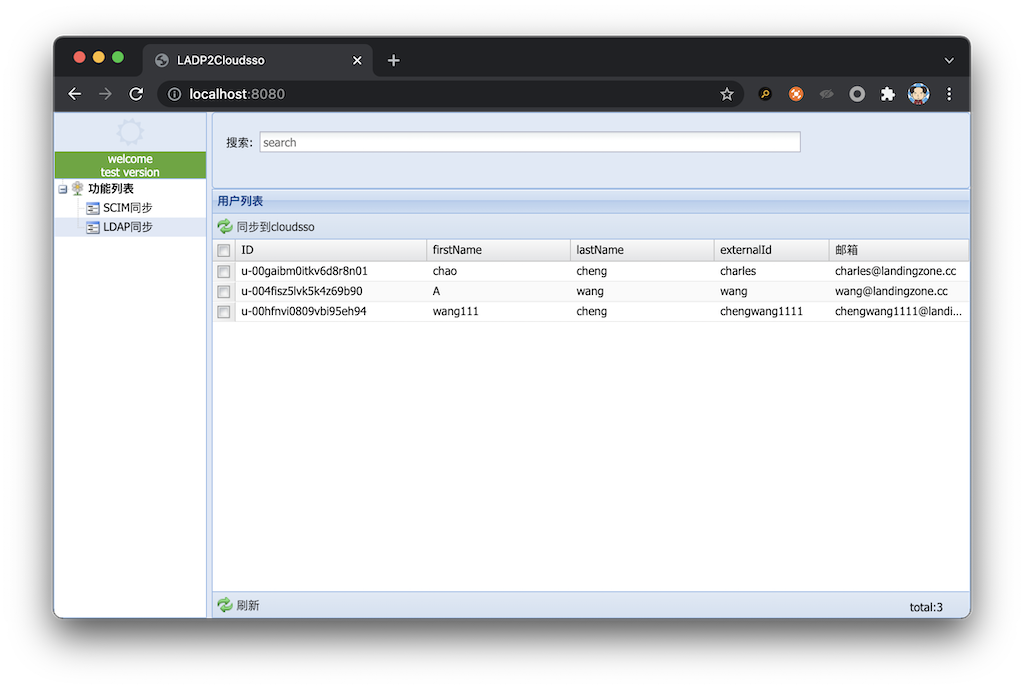
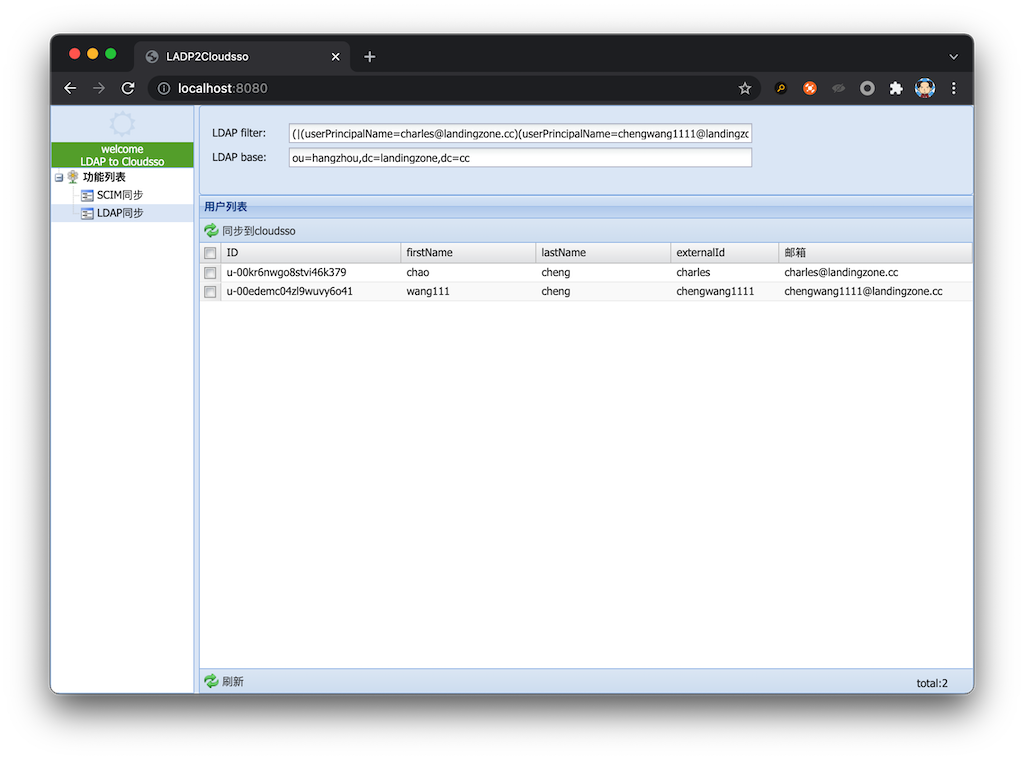
update

Changed region(s): [[0.0312, 0.0305, 0.9688, 0.9448], [0.4062, 0.4267, 0.4688, 0.4572]]

diff --git a/README.md b/README.md
@@ -39,6 +39,8 @@ ldap_attr_username = userPrincipalName
 
 
 
-# 截屏
+# LDAP搜索
 
 ![screenshot1](image/screenshot1.png)
+
+LDAP的搜索语法可以[参考这里](https://www.cnblogs.com/dreamer-fish/p/5832735.html)
